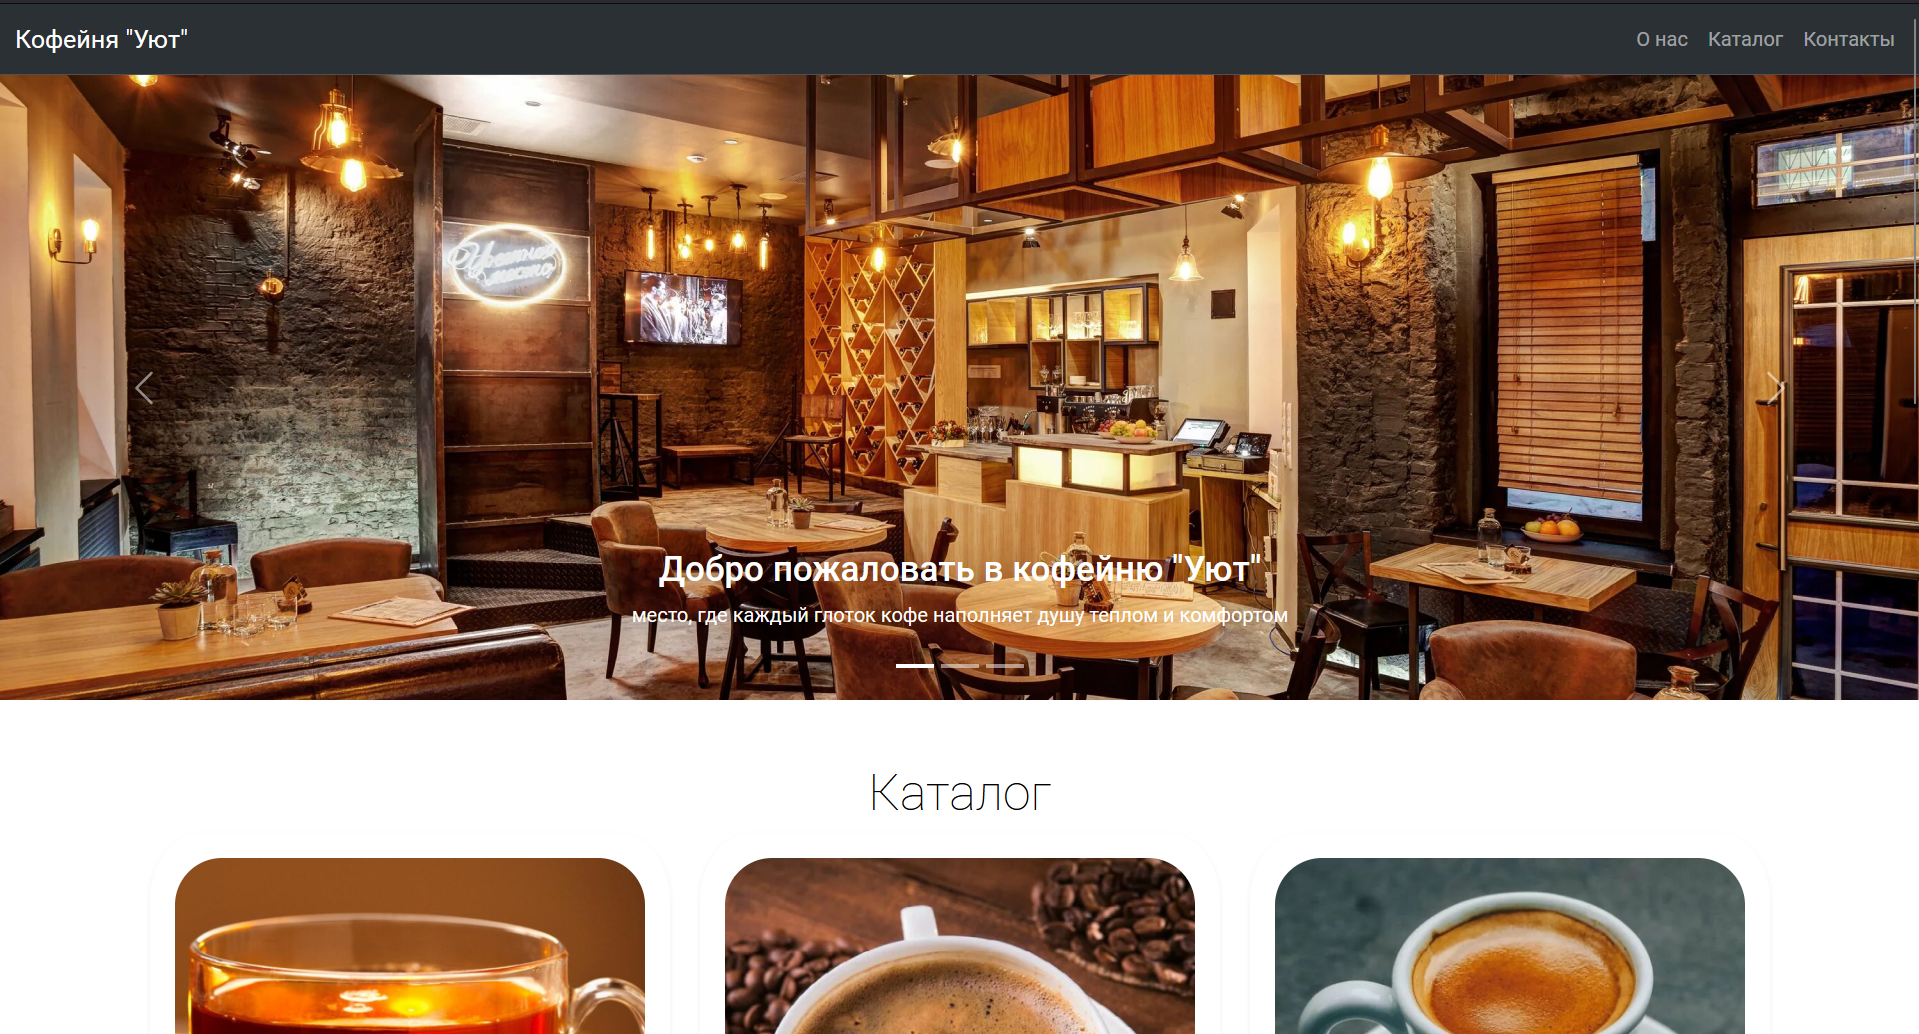
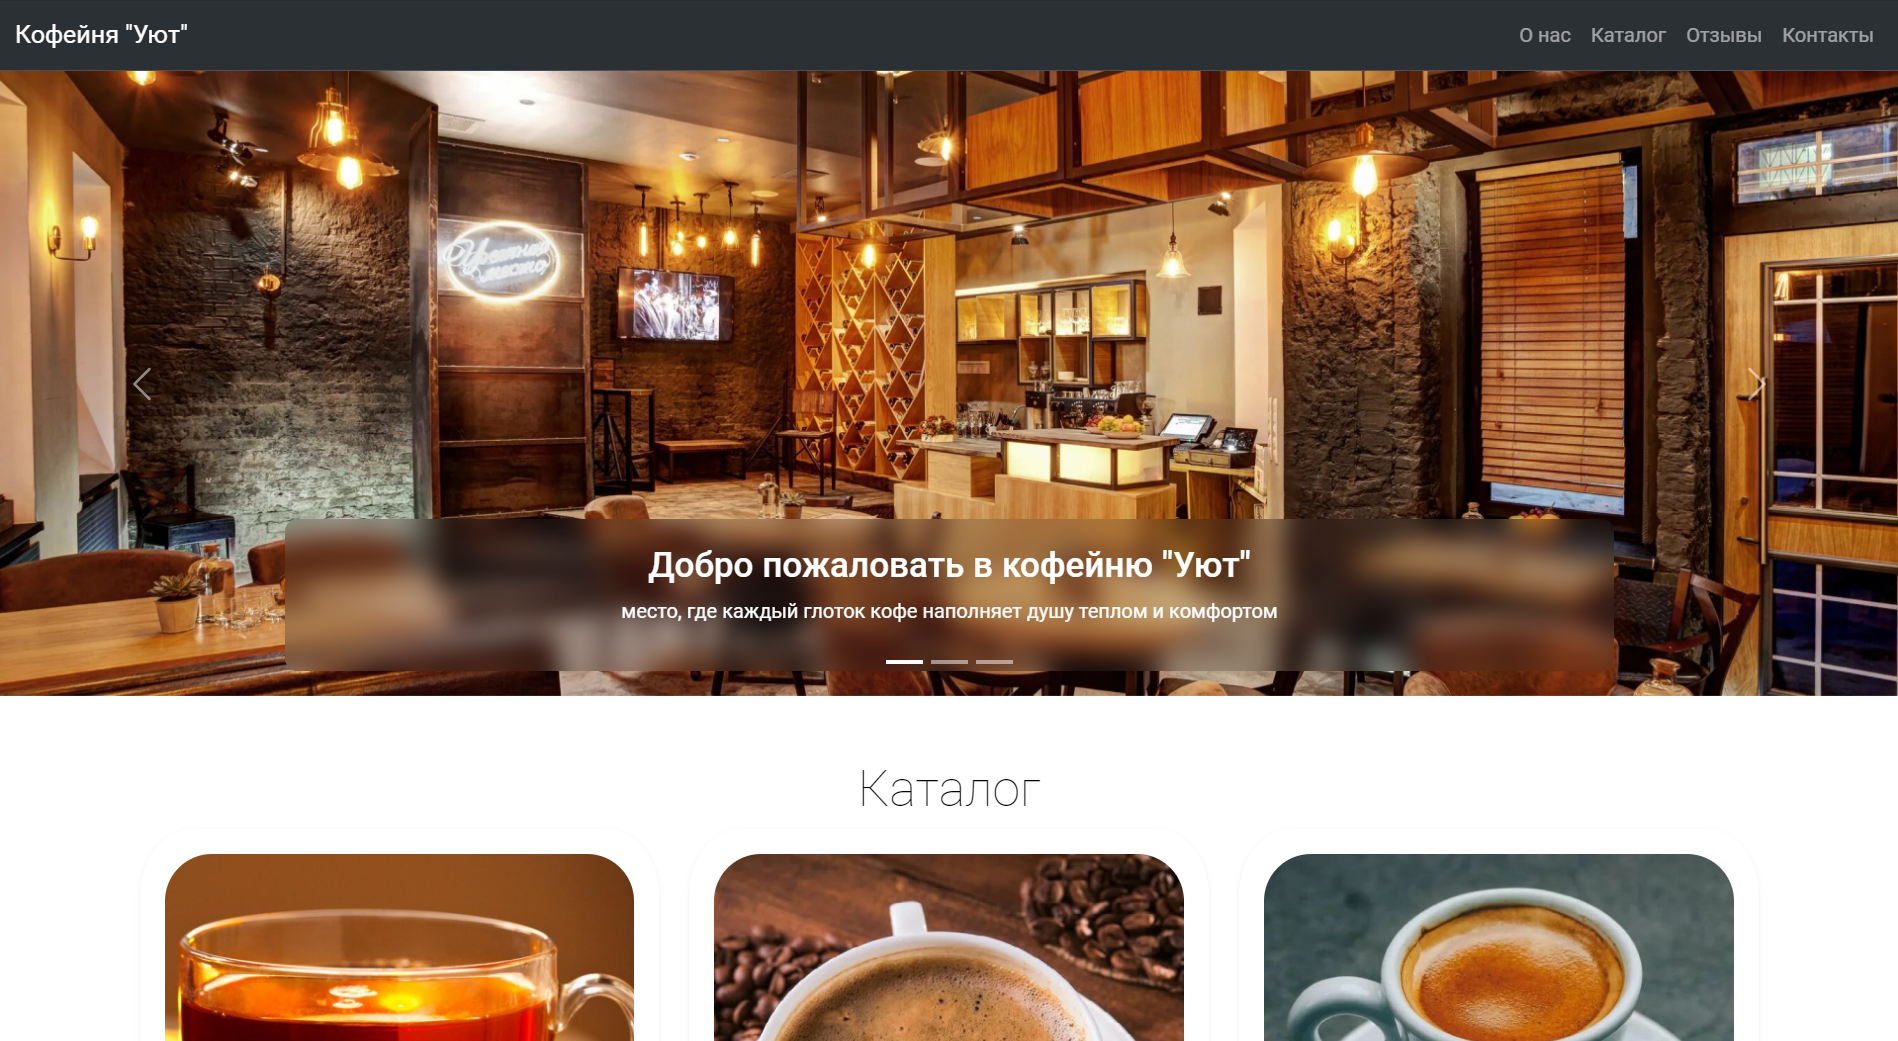
Add map, reviews sections

diff --git a/index.html b/index.html
@@ -48,6 +48,9 @@
               <a class="nav-link" href="#catalog">Каталог</a>
             </li>
             <li class="nav-item">
+              <a class="nav-link" href="#reviews">Отзывы</a>
+            </li>
+            <li class="nav-item">
               <a class="nav-link" href="#footer">Контакты</a>
             </li>
           </ul>
@@ -238,6 +241,66 @@
         </div>
       </div>
     </section>
+
+    <section class="reviews" id="reviews">
+      <div class="container">
+        <h1>Отзывы</h1>
+        <div class="row">
+          <div class="col-md-4">
+            <div class="carousel-item active">
+              <div class="d-flex justify-content-center">
+                  <div class="card text-center" style="width: 18rem;">
+                      <div class="card-body">
+                          <h5 class="card-title">Андрей</h5>
+                          <p class="card-text">Отличный сервис! Я очень доволен своим опытом.</p>
+                      </div>
+                  </div>
+              </div>
+            </div>
+          </div>
+
+          <div class="col-md-4">
+            <div class="carousel-item active">
+              <div class="d-flex justify-content-center">
+                  <div class="card text-center" style="width: 18rem;">
+                      <div class="card-body">
+                          <h5 class="card-title">Сергей</h5>
+                          <p class="card-text">Я остался очень доволен! Обязательно вернусь снова.</p>
+                      </div>
+                  </div>
+              </div>
+            </div>
+          </div>
+
+          <div class="col-md-4">
+            <div class="carousel-item active">
+              <div class="d-flex justify-content-center">
+                  <div class="card text-center" style="width: 18rem;">
+                      <div class="card-body">
+                          <h5 class="card-title">Наталья</h5>
+                          <p class="card-text">Потрясающее качество и быстрая доставка. Рекомендую!</p>
+                      </div>
+                  </div>
+              </div>
+            </div>
+          </div>
+        </div>
+      </div>
+    </section>
+    
+
+    <script src="https://code.jquery.com/jquery-3.5.1.slim.min.js"></script>
+    <script src="https://cdn.jsdelivr.net/npm/@popperjs/core@2.9.3/dist/umd/popper.min.js"></script>
+
+
+    <section class="section-map">
+      <div class="container">
+        <div class="row section-map-content">
+          <h1>Наш магазин</h1>
+          <iframe src="https://yandex.ru/map-widget/v1/?um=constructor%3Ad28192b2d988765a67e5e4704246d77c8938ac5ab4856a65721ec3af2a1ca050&amp;source=constructor" width="500" height="400" frameborder="0"></iframe>
+        </div>
+      </div>
+    </section>
     
     <footer>
       <section class="footer" id="footer">
@@ -249,6 +312,8 @@
                 <li><a href="#">Главная</a></li>
                 <li><a href="#about">О нас</a></li>
                 <li><a href="#catalog">Каталог</a></li>
+                <li><a href="#reviews">Отзывы</a></li>
+                <li><a href="#section-map">Как нас найти</a></li>
                 <li><a href="#footer">Контакты</a></li>
               </ul>
             </div>
@@ -286,5 +351,6 @@
     </footer>
 
     <script src="static/js/bootstrap.min.js"></script>
+
   </body>
 </html>

diff --git a/static/css/main.css b/static/css/main.css
@@ -63,6 +63,12 @@ top-menu li a:hover::after {
     font-weight: 200px;
 }
 
+.main-carousel .carousel-caption {
+    background-color: #34343433;
+    border-radius: 10px;
+    backdrop-filter: blur(10px);
+}
+
 /* Carousel */
 
 
@@ -130,6 +136,41 @@ top-menu li a:hover::after {
 /* Product card */
 
 
+/* Reeviews */
+.reviews {
+    background-color: #343434;
+}
+
+.reviews h1 {
+    text-align: center;
+    color: #c8c8c8;
+    font-weight: 200;
+    margin-bottom: 20px;
+}
+
+/* Reeviews */
+
+
+/* Geo */
+.section-map {
+    background-color: #fff;
+}
+
+.section-map-content h1 {
+    font-weight: 200;
+    color: #343434;
+    text-align: center;
+    margin-bottom: 20px;
+}
+
+.section-map-content iframe {
+    width: 600px;
+    text-align: center;
+    margin: 0 auto;
+}
+/* Geo */
+
+
 /* Footer */
 .footer {
     background-color: #343434;
@@ -189,3 +230,4 @@ top-menu li a:hover::after {
 .btn-close {
     background-color: #c8c8c8;
 }
+/* Modal */

diff --git a/README.md b/README.md
@@ -1,4 +1,5 @@
 # Фронтенд сайта кофейни "Уют"
+https://ivanson-1.github.io/Cafe-Uiut--HTML-CSS-JS-Bootstrap/
 
 Сайт кофейни демонстрирует работу основных технологий HTML, CSS, JS
 
